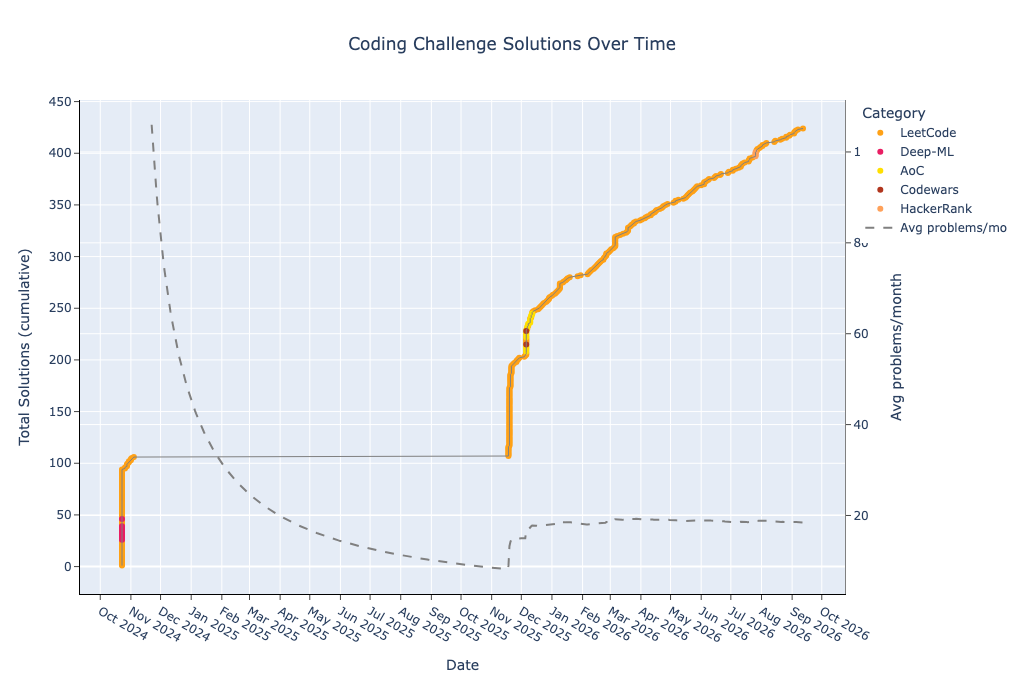
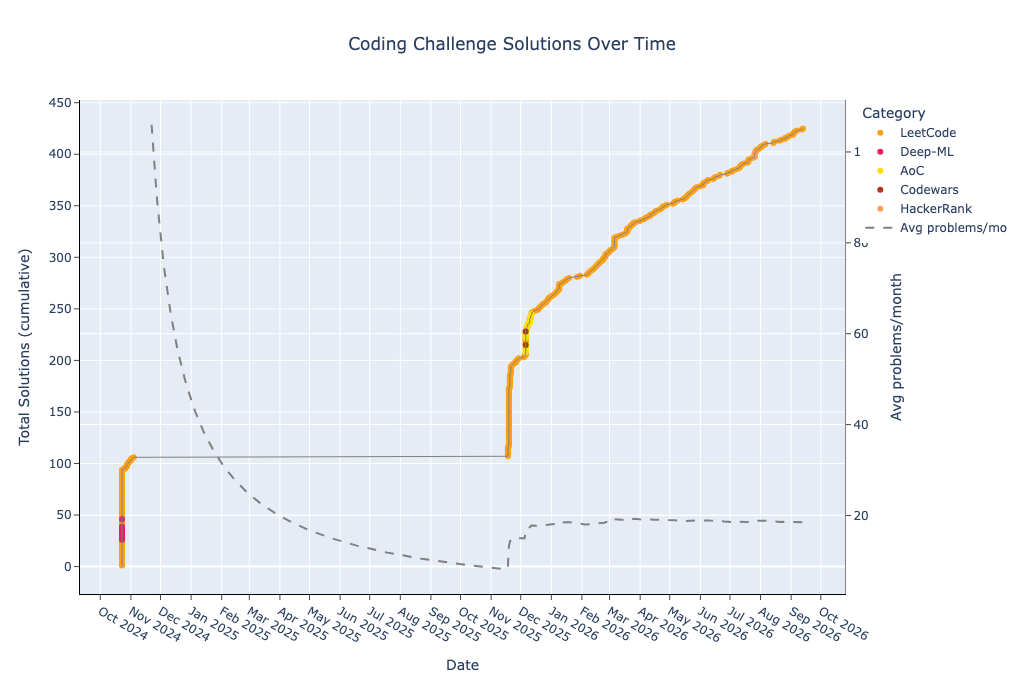
Regenerate README Co-Authored-By: Claude Haiku 4.5 <noreply@anthropic.com> Claude-Session: https://claude.ai/code/session_01MZBhe6FVgMgF4tEJ1RtFyM

diff --git a/README.md b/README.md
@@ -41,9 +41,9 @@ This repository contains a collection of coding problems solved on various platf
 | hackerrank-easy | 2 | 17 | 8 | 2 | 0 | 4 | 1 | 0 | 0 | 0 | 2 | 0 | 0 | 0 | 0 | 0 | 0 | 0 |
 | hackerrank-medium | 3 | 57 | 19 | 4 | 1 | 3 | 7 | 0 | 0 | 0 | 6 | 0 | 0 | 2 | 0 | 0 | 1 | 0 |
 | leetcode-easy | 137 | 2241 | 16 | 187 | 6 | 180 | 172 | 50 | 6 | 17 | 223 | 4 | 7 | 16 | 1 | 0 | 16 | 0 |
-| leetcode-medium | 205 | 5197 | 25 | 358 | 9 | 530 | 393 | 117 | 22 | 48 | 442 | 7 | 43 | 64 | 11 | 29 | 31 | 7 |
+| leetcode-medium | 206 | 5222 | 25 | 361 | 9 | 532 | 394 | 117 | 22 | 48 | 444 | 7 | 43 | 64 | 11 | 29 | 31 | 7 |
 | leetcode-hard | 37 | 1164 | 31 | 67 | 5 | 109 | 99 | 24 | 11 | 17 | 84 | 3 | 7 | 15 | 8 | 5 | 9 | 9 |
-| **total** | 424 | 10100 | 23 | 725 | 22 | 962 | 840 | 197 | 40 | 95 | 866 | 27 | 68 | 113 | 22 | 39 | 60 | 16 |
+| **total** | 425 | 10125 | 23 | 728 | 22 | 964 | 841 | 197 | 40 | 95 | 868 | 27 | 68 | 113 | 22 | 39 | 60 | 16 |
 
 ---
 
@@ -51,6 +51,7 @@ This repository contains a collection of coding problems solved on various platf
 
 | Date | Type | Challenge | Problem | Solution |
 | --- | --- | --- | --- | --- |
+| 2026-09-13 | LeetCode Medium | Count Nodes Equal to Average of Subtree | [leetcode.com](https://leetcode.com/problems/count-nodes-equal-to-average-of-subtree/) | [python](leetcode/medium/2265.%20Count%20Nodes%20Equal%20to%20Average%20of%20Subtree.py) |
 | 2026-09-12 | LeetCode Easy | Unique 3-Digit Even Numbers | [leetcode.com](https://leetcode.com/problems/unique-3-digit-even-numbers/) | [python](leetcode/easy/3483.%20Unique%203-Digit%20Even%20Numbers.py) |
 | 2026-09-07 | LeetCode Hard | Distinct Subsequences II | [leetcode.com](https://leetcode.com/problems/distinct-subsequences-ii/) | [python](leetcode/hard/940.%20Distinct%20Subsequences%20II.py) |
 | 2026-09-05 | LeetCode Medium | Smallest Stable Index II | [leetcode.com](https://leetcode.com/problems/smallest-stable-index-ii/) | [python](leetcode/medium/3904.%20Smallest%20Stable%20Index%20II.py) |
@@ -59,7 +60,6 @@ This repository contains a collection of coding problems solved on various platf
 | 2026-09-03 | LeetCode Medium | Construct Uniform Parity Array II | [leetcode.com](https://leetcode.com/problems/construct-uniform-parity-array-ii/) | [python](leetcode/medium/3876.%20Construct%20Uniform%20Parity%20Array%20II.py) |
 | 2026-08-30 | LeetCode Medium | Removing Minimum and Maximum From Array | [leetcode.com](https://leetcode.com/problems/removing-minimum-and-maximum-from-array/) | [python](leetcode/medium/2091.%20Removing%20Minimum%20and%20Maximum%20From%20Array.py) |
 | 2026-08-29 | LeetCode Medium | Make Lexicographically Smallest Array by Swapping Elements | [leetcode.com](https://leetcode.com/problems/make-lexicographically-smallest-array-by-swapping-elements/) | [python](leetcode/medium/2948.%20Make%20Lexicographically%20Smallest%20Array%20by%20Swapping%20Elements.py) |
-| 2026-08-26 | LeetCode Medium | Shortest and Lexicographically Smallest Beautiful String | [leetcode.com](https://leetcode.com/problems/shortest-and-lexicographically-smallest-beautiful-string/) | [python](leetcode/medium/2904.%20Shortest%20and%20Lexicographically%20Smallest%20Beautiful%20String.py) |
 | 2026-08-26 | LeetCode Medium | Shortest and Lexicographically Smallest Beautiful String | [leetcode.com](https://leetcode.com/problems/shortest-and-lexicographically-smallest-beautiful-string/) | [python](leetcode/medium/2904.%20Shortest%20and%20Lexicographically%20Smallest%20Beautiful%20String.py) |
 # Advent of Code
 ### 2025
@@ -450,6 +450,7 @@ This repository contains a collection of coding problems solved on various platf
 | 2211 | Count Collisions on a Road | O(n) | O(1) | [leetcode.com](https://leetcode.com/problems/count-collisions-on-a-road) | [python](leetcode/medium/2211.%20Count%20Collisions%20on%20a%20Road.py) |
 | 2221 | Find Triangular Sum of an Array | O(n) | O(1) | [leetcode.com](https://leetcode.com/problems/find-triangular-sum-of-an-array/) | [python](leetcode/medium/2221.%20Find%20Triangular%20Sum%20of%20an%20Array.py) |
 | 2257 | Count Unguarded Cells in the Grid | O(n) | O(1) | [leetcode.com](https://leetcode.com/problems/count-unguarded-cells-in-the-grid/) | [python](leetcode/medium/2257.%20Count%20Unguarded%20Cells%20in%20the%20Grid.py) |
+| 2265 | Count Nodes Equal to Average of Subtree | O(n) | O(h) | [leetcode.com](https://leetcode.com/problems/count-nodes-equal-to-average-of-subtree/) | [python](leetcode/medium/2265.%20Count%20Nodes%20Equal%20to%20Average%20of%20Subtree.py) |
 | 2300 | Successful Pairs of Spells and Potions | O(n) | O(1) | [leetcode.com](https://leetcode.com/problems/successful-pairs-of-spells-and-potions/) | [python](leetcode/medium/2300.%20Successful%20Pairs%20of%20Spells%20and%20Potions.py) |
 | 2353 | Design a Food Rating System | O(n) | O(1) | [leetcode.com](https://leetcode.com/problems/design-a-food-rating-system/) | [python](leetcode/medium/2353.%20Design%20a%20Food%20Rating%20System.py) |
 | 2370 | Longest Ideal Subsequence | O(n) | O(1) | [leetcode.com](https://leetcode.com/problems/longest-ideal-subsequence/) | [python](leetcode/medium/2370.%20Longest%20Ideal%20Subsequence.py) |

diff --git a/CHANGES.md b/CHANGES.md
@@ -4,6 +4,7 @@
 
 | Date | Type | Challenge | Problem | Solution |
 | --- | --- | --- | --- | --- |
+| 2026-09-13 | LeetCode Medium | Count Nodes Equal to Average of Subtree | [leetcode.com](https://leetcode.com/problems/count-nodes-equal-to-average-of-subtree/) | [python](leetcode/medium/2265.%20Count%20Nodes%20Equal%20to%20Average%20of%20Subtree.py) |
 | 2026-09-12 | LeetCode Easy | Unique 3-Digit Even Numbers | [leetcode.com](https://leetcode.com/problems/unique-3-digit-even-numbers/) | [python](leetcode/easy/3483.%20Unique%203-Digit%20Even%20Numbers.py) |
 | 2026-09-07 | LeetCode Hard | Distinct Subsequences II | [leetcode.com](https://leetcode.com/problems/distinct-subsequences-ii/) | [python](leetcode/hard/940.%20Distinct%20Subsequences%20II.py) |
 | 2026-09-05 | LeetCode Medium | Smallest Stable Index II | [leetcode.com](https://leetcode.com/problems/smallest-stable-index-ii/) | [python](leetcode/medium/3904.%20Smallest%20Stable%20Index%20II.py) |
@@ -12,5 +13,4 @@
 | 2026-09-03 | LeetCode Medium | Construct Uniform Parity Array II | [leetcode.com](https://leetcode.com/problems/construct-uniform-parity-array-ii/) | [python](leetcode/medium/3876.%20Construct%20Uniform%20Parity%20Array%20II.py) |
 | 2026-08-30 | LeetCode Medium | Removing Minimum and Maximum From Array | [leetcode.com](https://leetcode.com/problems/removing-minimum-and-maximum-from-array/) | [python](leetcode/medium/2091.%20Removing%20Minimum%20and%20Maximum%20From%20Array.py) |
 | 2026-08-29 | LeetCode Medium | Make Lexicographically Smallest Array by Swapping Elements | [leetcode.com](https://leetcode.com/problems/make-lexicographically-smallest-array-by-swapping-elements/) | [python](leetcode/medium/2948.%20Make%20Lexicographically%20Smallest%20Array%20by%20Swapping%20Elements.py) |
-| 2026-08-26 | LeetCode Medium | Shortest and Lexicographically Smallest Beautiful String | [leetcode.com](https://leetcode.com/problems/shortest-and-lexicographically-smallest-beautiful-string/) | [python](leetcode/medium/2904.%20Shortest%20and%20Lexicographically%20Smallest%20Beautiful%20String.py) |
 | 2026-08-26 | LeetCode Medium | Shortest and Lexicographically Smallest Beautiful String | [leetcode.com](https://leetcode.com/problems/shortest-and-lexicographically-smallest-beautiful-string/) | [python](leetcode/medium/2904.%20Shortest%20and%20Lexicographically%20Smallest%20Beautiful%20String.py) |
